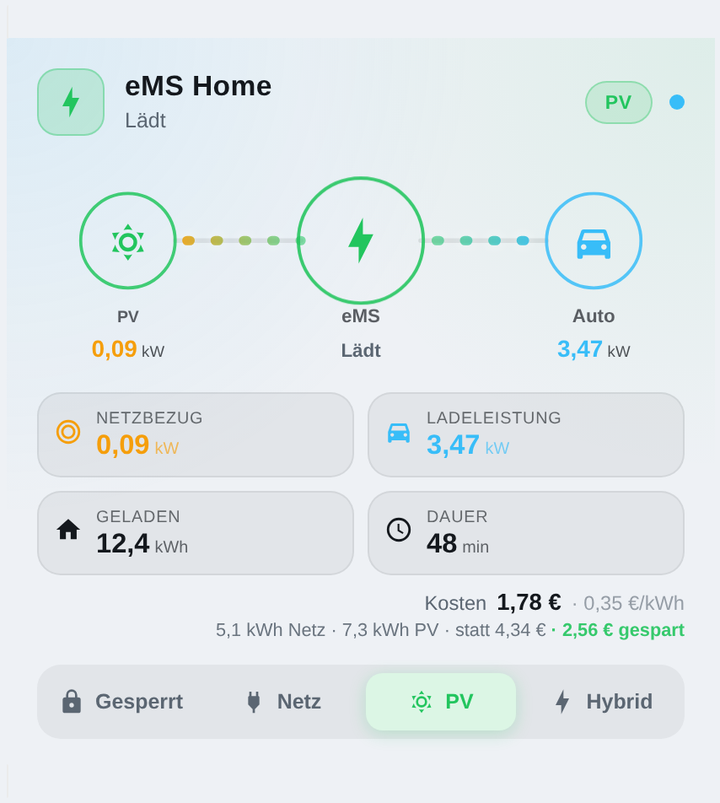
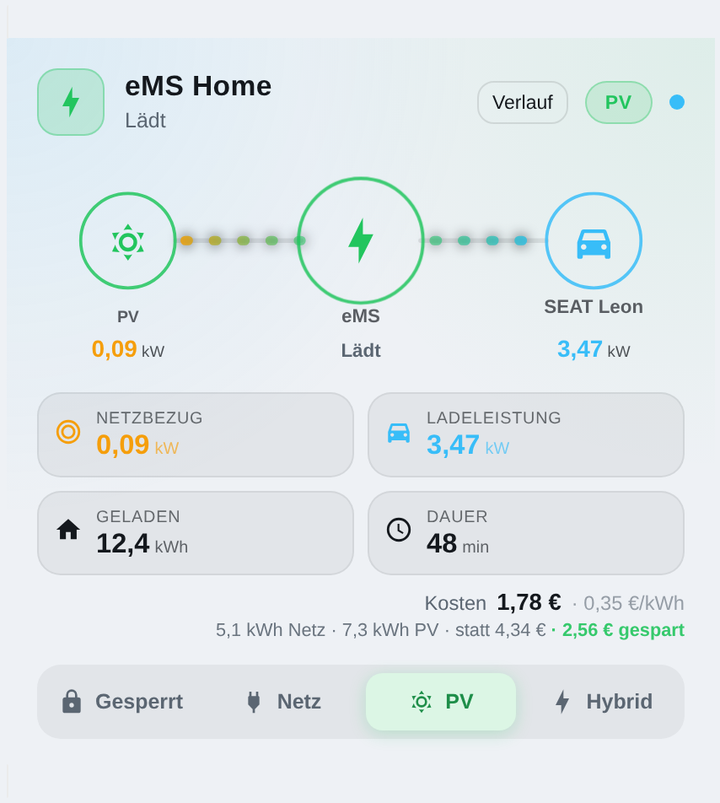
docs: refresh the README card screenshots, add the English guide
- assets/: regenerated all card shots at the current code (automatic button, cost
  line that hides when there is no price); card-pv and card-locked now come from
  the same script instead of being old files.
- docs/history-card-*.png: regenerated with the new header layout.
- preview/history-preview.html gains ?only=history for those shots.
- docs/GUIDE.md: the long English guide, linked from the README.

diff --git a/preview/history-preview.html b/preview/history-preview.html
@@ -113,6 +113,14 @@ cards[2].setConfig({
   layout: params.get("layout") || "full",
   show_sessions: params.get("sessions") === "1",
 });
+// `?only=history` hides the two chart cards: the README screenshots need one card.
+if (params.get("only") === "history") {
+  for (const card of cards.slice(0, 2)) (card.closest(".card") || card).remove();
+  // Heading and padding off: the README wants the card, not the preview frame.
+  document.querySelectorAll(".card h2").forEach(h => h.remove());
+  document.body.style.background = "#0b0e13";
+  document.querySelector(".card").style.cssText = "padding:0;border:0;background:transparent";
+}
 for (const card of cards) card.hass = hass;
 // `?pick=<index>` shows a selection without a click, for screenshots of empty days.
 if (new URLSearchParams(location.search).get("report") === "idle") {
